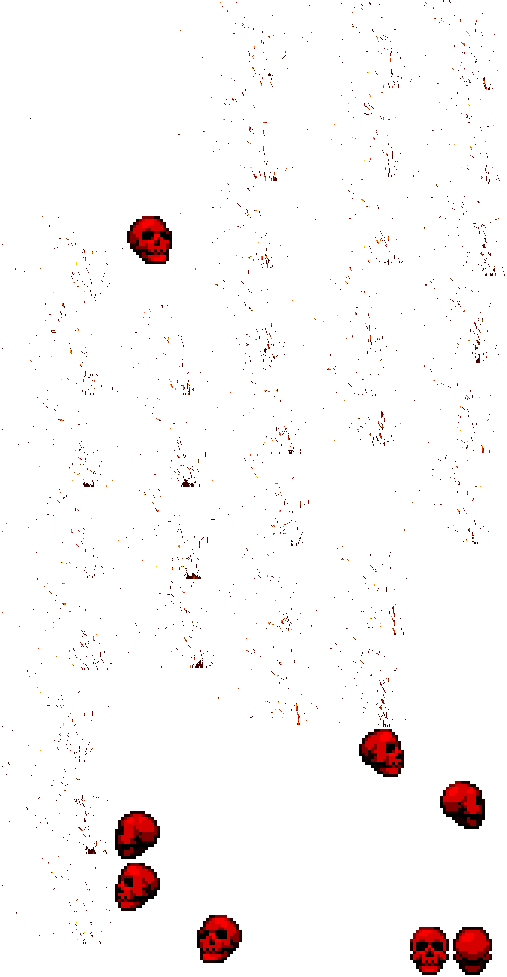
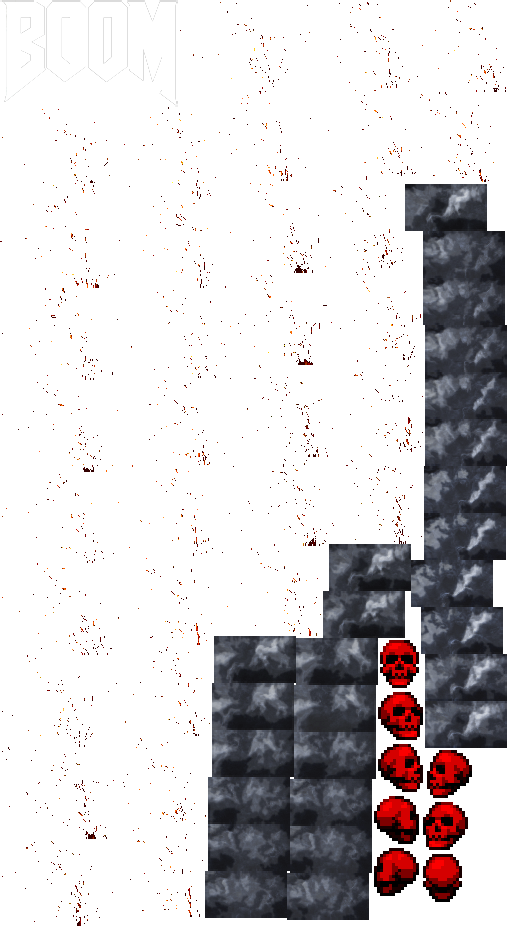
Updated sprite

diff --git a/src/assets/scripts/components/Game/scenes/TitleScene/sprites/SmokeSprite/index.js b/src/assets/scripts/components/Game/scenes/TitleScene/sprites/SmokeSprite/index.js
@@ -2,12 +2,14 @@ import { AnimatedSprite } from 'game/core/graphics';
 import { RED } from 'game/constants/colors';
 
 class SmokeSprite extends AnimatedSprite {
-  constructor(textures) {
+  constructor(textures, { alpha = 1 } = {}) {
     super(textures, {
       animationSpeed: 0.2,
       tint: RED,
       loop: true,
     });
+
+    this.alpha = alpha;
   }
 }
 

diff --git a/src/assets/scripts/components/Game/scenes/TitleScene/parsers/index.js b/src/assets/scripts/components/Game/scenes/TitleScene/parsers/index.js
@@ -22,7 +22,7 @@ export const parse = ({ graphics }) => {
   return {
     sprites: {
       background: {
-        smoke: new SmokeSprite(smokeTextures),
+        smoke: new SmokeSprite(smokeTextures, { alpha: 0.5 }),
         sparks: new SparksSprite(sparksTextures),
       },
       foreground: {

diff --git a/src/assets/scripts/components/Game/scenes/TitleScene/containers/BackgroundContainer/index.js b/src/assets/scripts/components/Game/scenes/TitleScene/containers/BackgroundContainer/index.js
@@ -22,7 +22,6 @@ class BackgroundContainer extends Container {
     this.addChild(smoke);
     this.addChild(sparks);
 
-
     this.filters = [new PixelateFilter()];
     this.filters[0].enabled = false;
     this.filters[0].size = 10;
